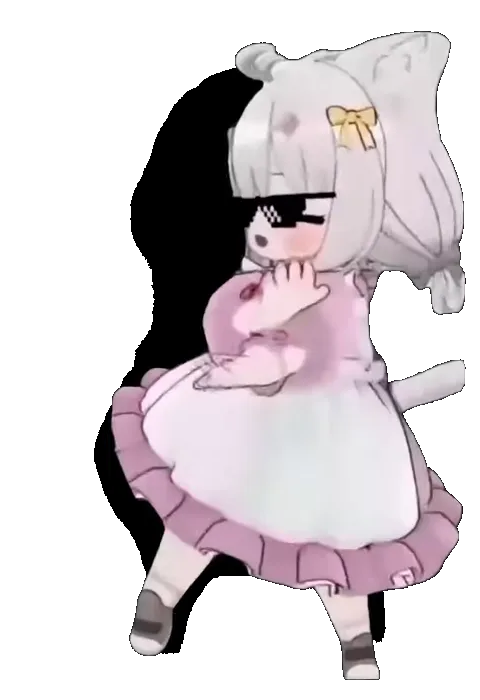
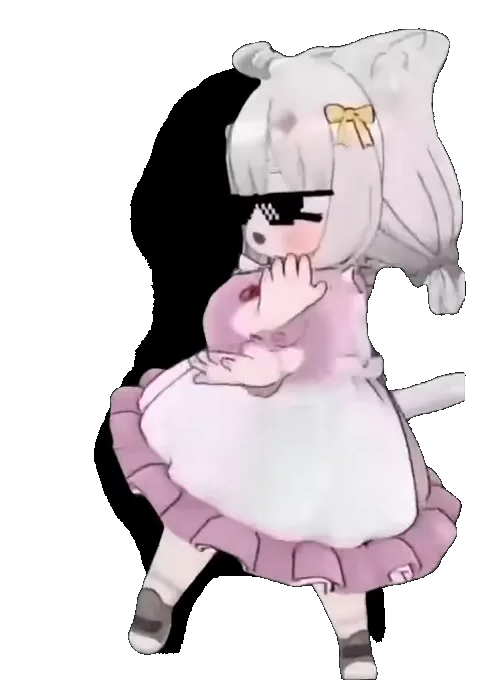
chore: v1.1.31
fix(拖拽): app-region:drag 在透明窗口不生效（Chromium 限制），改回事件驱动：
pointermove 累计 movementX/Y 按 rAF 合帧上报，主进程 setPosition；拖动期间
切定格帧消掉动画合成开销（v1.1.30 拖不动的根因）。
fix(素材): 抠图保留 >=40px 全部连通体（原先只留最大连通体，腿/裙摆连接变
细的帧整条腿被当噪声丢掉）；alpha 按帧亮度缩放，素材首尾淡出帧从黑色剪影
闪现改为淡出到透明（循环点不再闪黑）。

diff --git a/cli/src/renderer/pet/PetApp.tsx b/cli/src/renderer/pet/PetApp.tsx
@@ -7,13 +7,14 @@ import swayingCatStillUrl from '../assets/pet/swaying-cat-still.png'
  * 桌面宠物窗口（「Tran 以外」的展示位）的页面：一只魔性摇摆猫 + 状态气泡。
  * 与界面内 PetMascot 同素材同情绪，状态经主进程 pet:state 推过来。
  *
- * 素材：边缘洪水填充抠过背景的真透明动画 webp（墨镜的封闭黑区完好），
- * 无限循环；首尾淡出是素材自带的循环衔接设计（黑场帧抠完即透明帧，
- * 循环点表现为人物自然隐现，没有黑闪）。waiting 时换成同帧定格 PNG
- * （两张图叠放透明度切换，避免换 src 的解码闪烁）。
+ * 素材：三段式抠图的真透明动画 webp（墨镜/腿完好），无限循环；首尾淡出帧
+ * 的 alpha 已按帧亮度缩放——循环点是人物自然隐现，没有黑闪。waiting 换同帧
+ * 定格 PNG（叠放切换避免解码闪烁）。
  *
- * 交互：拖拽走 OS 原生（stage 的 -webkit-app-region:drag，见 petWindow.ts），
- * 右键出菜单。
+ * 拖拽（2026-08-20 第三版）：pointermove 累计 movementX/Y，rAF 合帧上报主
+ * 进程 setPosition；拖动期间切定格帧（动画合成开销是"卡"的主因）。
+ * -webkit-app-region:drag 在透明窗口上不生效（Chromium 限制），别走回头路。
+ * stage 的 1% 白底让全窗都能命中（透明像素在分层窗口上点不到）。
  */
 
 const BUBBLE_FALLBACK: Record<Exclude<PetMood, 'idle'>, string> = {
@@ -30,13 +31,11 @@ const CSS = `
     display: flex; align-items: flex-end; justify-content: center;
     cursor: grab; user-select: none; -webkit-user-select: none;
     touch-action: none;
-    /* 拖拽交给 OS 原生（WM_NCHITTEST + app-region:drag）。
-       Windows 分层窗口按像素 alpha 命中：真透明区域点不到（会穿透），
-       1% 白等于肉眼不可见的"全窗可点"——拖哪都跟手，右键哪都出菜单。 */
+    /* Windows 分层窗口按像素 alpha 命中：全透明区域点不到。1% 白 =
+       肉眼不可见的全窗可点（拖哪、右键哪都行）。 */
     background: rgba(255, 255, 255, 0.012);
-    -webkit-app-region: drag;
   }
-  .pet-stage:active { cursor: grabbing; }
+  .pet-stage.dragging { cursor: grabbing; }
   .pet-img {
     width: 90px; height: auto; display: block; pointer-events: none;
     transition: opacity 180ms ease, filter 180ms ease;
@@ -51,8 +50,6 @@ const CSS = `
     white-space: nowrap; overflow: hidden; text-overflow: ellipsis;
     box-shadow: 0 4px 16px rgba(0, 0, 0, .35);
     pointer-events: none;
-    /* 气泡不抢拖拽：整块 stage 都是拖拽区。 */
-    -webkit-app-region: drag;
   }
   .pet-bubble::after {
     content: ''; position: absolute; bottom: -4px; left: 50%; margin-left: -4px;
@@ -66,18 +63,77 @@ const CSS = `
 
 export default function PetApp(): JSX.Element {
   const [state, setState] = useState<PetState>({ mood: 'idle' })
+  const [dragging, setDragging] = useState(false)
+  const stageRef = useRef<HTMLDivElement | null>(null)
+  /** rAF 合帧用的增量累计与帧句柄。 */
+  const pendingDelta = useRef({ dx: 0, dy: 0 })
+  const rafId = useRef(0)
 
   useEffect(() => {
     if (!window.petApi) return
     return window.petApi.onState(setState)
   }, [])
 
-  const animated = state.mood !== 'waiting'
+  useEffect(() => {
+    return () => {
+      if (rafId.current) cancelAnimationFrame(rafId.current)
+    }
+  }, [])
+
+  const flushDelta = (): void => {
+    rafId.current = 0
+    const { dx, dy } = pendingDelta.current
+    if ((dx !== 0 || dy !== 0) && window.petApi) {
+      window.petApi.dragDelta({ dx, dy })
+    }
+    pendingDelta.current = { dx: 0, dy: 0 }
+  }
+
+  const onPointerDown = (e: React.PointerEvent<HTMLDivElement>): void => {
+    if (e.button !== 0 || !window.petApi) return
+    setDragging(true)
+    // setPointerCapture 在 focusable:false 的透明窗口上可能抛错——优化项，
+    // 绝不能阻断拖拽（窗口就巴掌大，移动/抬起总会进这个 div）。
+    try {
+      stageRef.current?.setPointerCapture(e.pointerId)
+    } catch {
+      /* 见上 */
+    }
+  }
+  const onPointerMove = (e: React.PointerEvent<HTMLDivElement>): void => {
+    if (!dragging || !window.petApi) return
+    pendingDelta.current.dx += e.movementX
+    pendingDelta.current.dy += e.movementY
+    if (!rafId.current) rafId.current = requestAnimationFrame(flushDelta)
+  }
+  const onPointerUp = (e: React.PointerEvent<HTMLDivElement>): void => {
+    if (!dragging) return
+    setDragging(false)
+    if (rafId.current) {
+      cancelAnimationFrame(rafId.current)
+      rafId.current = 0
+    }
+    flushDelta()
+    try {
+      stageRef.current?.releasePointerCapture(e.pointerId)
+    } catch {
+      /* 与按下处同理 */
+    }
+    window.petApi?.dragEnd()
+  }
+
+  // 动画层：waiting 或拖拽中显示定格（拖拽时动画合成是卡的主因）
+  const animated = state.mood !== 'waiting' && !dragging
   const bubble = state.mood === 'idle' ? null : (state.label ?? BUBBLE_FALLBACK[state.mood])
 
   return (
     <div
-      className={`pet-stage mood-${state.mood}`}
+      ref={stageRef}
+      className={`pet-stage mood-${state.mood}${dragging ? ' dragging' : ''}`}
+      onPointerDown={onPointerDown}
+      onPointerMove={onPointerMove}
+      onPointerUp={onPointerUp}
+      onPointerCancel={onPointerUp}
       onContextMenu={(e) => {
         e.preventDefault()
         window.petApi?.openContextMenu()

diff --git a/cli/src/main/petWindow.ts b/cli/src/main/petWindow.ts
@@ -13,11 +13,13 @@ import type { PetMood, PetState, Preferences } from '../shared/ipc'
  *
  * 实现要点：
  * - 窗口配置照抄 controlOverlay 那套（transparent + skipTaskbar +
- *   backgroundThrottling:false），但**不能** setIgnoreMouseEvents——宠物要
- *   支持拖拽换位和右键菜单。同理也不能 focusable:false：Windows 上那种
- *   窗口完全收不到 OS 鼠标输入（2026-08-20 实证）。
- * - 拖拽交给 OS 原生：stage 用 -webkit-app-region:drag，右键不受影响；
- *   位置落盘靠窗口 'move' 事件防抖（'moved' 是 macOS 限定，Windows 不发）。
+ *   backgroundThrottling:false），但不能 setIgnoreMouseEvents——宠物要
+ *   支持拖拽换位和右键菜单。focusable:false 不抢焦点。
+ * - 拖拽：pointermove → 渲染层 rAF 合帧 → movementX/Y 增量 IPC → 主进程
+ *   setPosition。-webkit-app-region:drag 在透明窗口上不生效（Chromium
+ *   限制），主进程 60Hz 轮询 setPosition 会冻死应用（2026-08-20 实测），
+ *   事件驱动 + 合帧是实测可行的唯一组合。位置落盘靠 'move' 事件防抖 +
+ *   drag-end 立即落盘（'moved' 是 macOS 限定事件，Windows 不发）。
  * - 页面加载完之前 webContents.send 会丢，lastState 缓存 + did-finish-load
  *   补发（同 controlOverlay 的 pendingState 思路）。
  * - 位置持久化在 settings.petPosition；启动时校验落在某块屏内，防拔副屏后
@@ -136,10 +138,7 @@ function createPetWindow(): void {
     maximizable: false,
     fullscreenable: false,
     skipTaskbar: true,
-    // focusable:true：false 在 Windows 上会让窗口完全收不到 OS 鼠标输入
-    // （拖拽/右键全废，2026-08-20 逐层排查实证）。宠物没有输入控件，
-    // 可聚焦唯一的代价是点击时焦点短暂落在它身上，可接受。
-    focusable: true,
+    focusable: false,
     show: false,
     webPreferences: {
       preload: join(__dirname, '../preload/pet.js'),
@@ -215,6 +214,20 @@ export function initPetWindow(
   if (!ipcRegistered) {
     ipcRegistered = true
     ipcMain.on('pet:set-state', (_e, state: unknown) => updatePetState(state))
+    // 拖拽：渲染层按 rAF 合帧上报 movementX/Y 增量，主进程逐条 setPosition。
+    // 注意 -webkit-app-region:drag 在透明窗口上不生效（Chromium 限制），
+    // 主进程 60Hz 轮询 setPosition 会把应用冻死——事件驱动是唯一出路。
+    ipcMain.on('pet:drag-delta', (_e, delta: unknown) => {
+      const win = petWindow
+      if (!win || win.isDestroyed()) return
+      const d = delta && typeof delta === 'object' ? (delta as Record<string, unknown>) : null
+      if (typeof d?.dx !== 'number' || typeof d?.dy !== 'number') return
+      const [x, y] = win.getPosition()
+      win.setPosition(Math.round(x + d.dx), Math.round(y + d.dy))
+    })
+    ipcMain.on('pet:drag-end', () => {
+      if (petWindow && !petWindow.isDestroyed()) scheduleSavePosition(petWindow, 0)
+    })
     ipcMain.on('pet:context-menu', () => {
       const win = petWindow
       if (!win || win.isDestroyed()) return

diff --git a/cli/src/shared/ipc.ts b/cli/src/shared/ipc.ts
@@ -309,8 +309,11 @@ export interface PetState {
 /** 宠物窗口独占的 preload API（window.petApi；主窗口不注入）。 */
 export interface PetApi {
   onState(cb: (state: PetState) => void): () => void
-  /** 请求弹出宠物右键菜单（显示主窗口 / 隐藏宠物）。
-   *  拖拽不需要 API：stage 是 -webkit-app-region:drag，OS 原生处理。 */
+  /** 拖拽中：指针位移增量（movementX/Y，CSS px = DIP；渲染层按 rAF 合帧上报）。 */
+  dragDelta(delta: { dx: number; dy: number }): void
+  /** 拖拽结束：主进程立即把当前位置落盘。 */
+  dragEnd(): void
+  /** 请求弹出宠物右键菜单（显示主窗口 / 隐藏宠物）。 */
   openContextMenu(): void
 }
 

diff --git a/cli/src/preload/pet.ts b/cli/src/preload/pet.ts
@@ -11,6 +11,8 @@ const petApi: PetApi = {
     ipcRenderer.on('pet:state', listener)
     return () => ipcRenderer.removeListener('pet:state', listener)
   },
+  dragDelta: (delta) => ipcRenderer.send('pet:drag-delta', delta),
+  dragEnd: () => ipcRenderer.send('pet:drag-end'),
   openContextMenu: () => ipcRenderer.send('pet:context-menu')
 }
 

diff --git a/cli/CHANGELOG.md b/cli/CHANGELOG.md
@@ -1,5 +1,19 @@
 # Changelog
 
+## v1.1.31 - 2026-08-20
+
+### 中文
+
+- 修复:**悬浮窗真的拖不动了**——v1.1.30 用的 `-webkit-app-region: drag` 在透明窗口上根本不生效（Chromium 限制）。改回事件驱动拖拽但治好"卡"：pointermove 累计 movementX/Y 按 rAF 合帧上报主进程 setPosition（实测两次 +40/+30 精准落位 +80/+60），拖动期间自动切定格帧消掉动画合成开销。
+- 修复:**腿部仍有零星帧消失**——抠图只保留最大连通体，腿/裙摆连接变细的帧整条腿被当噪声丢掉。改为保留所有 ≥40px 连通体，逐帧验证腿区覆盖正常。
+- 修复:**循环点仍闪黑**——素材首尾淡入淡出帧里人物以黑色剪影闪现（alpha 不透明 + RGB 近黑）。alpha 改按帧亮度整体缩放：淡出 = 淡出到透明，帧 0 已全透明、过渡帧半透明，不再有黑色。
+
+### English
+
+- Fix: float window truly undraggable — v1.1.30's `-webkit-app-region: drag` simply doesn't work on transparent windows (Chromium limitation). Back to event-driven drag, minus the jank: pointermove accumulates movementX/Y, flushed per animation frame to the main process (verified precise to the pixel), and the animation swaps to a still frame while dragging to cut compositing cost.
+- Fix: legs still vanished on a few frames — the keyer kept only the largest connected component, so a thinning leg/skirt bridge lost the whole leg. Now keeps every component ≥40px.
+- Fix: black flash at the loop point — on the material's baked fade frames the character flashed as a black silhouette. Alpha now scales with each frame's brightness, so fades go to transparent instead of black (frame 0 fully transparent).
+
 ## v1.1.30 - 2026-08-20
 
 ### 中文
